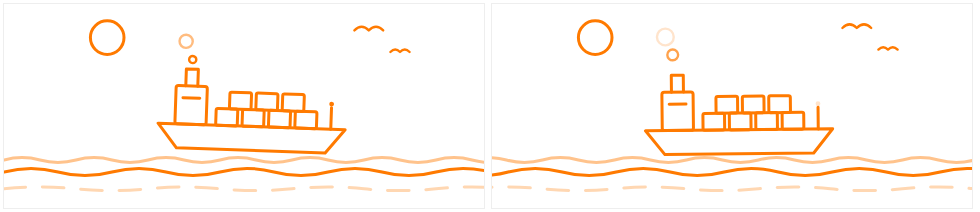
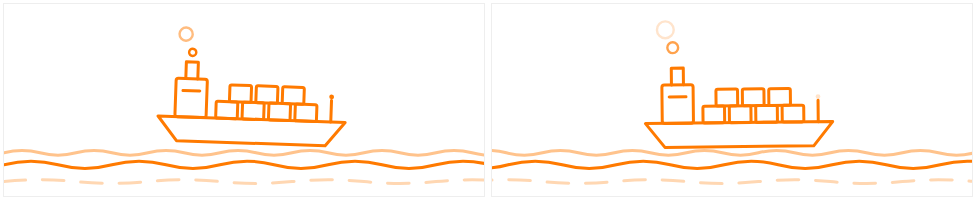
Remove sun and gulls from marine loader
Keeps only the ship, smoke and waves; tightens the SVG crop to match.

Claude-Session: https://claude.ai/code/session_01EhUt45aVk8sWdp9G4hTcgM

diff --git a/README.md b/README.md
@@ -2,7 +2,7 @@
 
 ## Marine loading component (`cmpMarineLoader`)
 
-A minimalist, single-colour loading overlay for Power Apps canvas apps. An outlined container ship bobs on scrolling wave lines, with smoke rings rising from the funnel, a blinking mast light, a sun and two gulls. Under the drawing there are animated "Loading..." dots and a thin progress bar that slides back and forth. Everything is orange line art on white by default.
+A minimalist, single-colour loading overlay for Power Apps canvas apps. An outlined container ship bobs on scrolling wave lines, with smoke rings rising from the funnel and a blinking mast light. Under the drawing there are animated "Loading..." dots and a thin progress bar that slides back and forth. Everything is orange line art on white by default.
 
 ![Marine loader frames](docs/marine-loader-preview.png)
 
